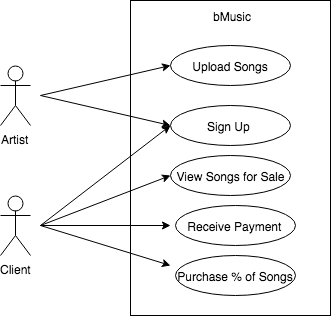
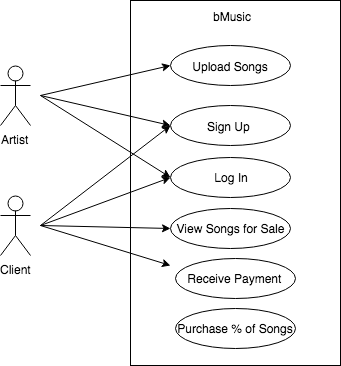
update and add use cases

diff --git a/REQUIREMENTS.md b/REQUIREMENTS.md
@@ -26,5 +26,23 @@ bMusic would solve Chris's needs as it is an extra way for him to grow his capit
 ## Use Cases 
 ![Use Cases](useCases.png)
 
+**Title**: Upload Songs
+
+**Actor**: Artist
+
+Scenario: Artist clicks on a button to upload a song. A modal pops up for artist to enter song name, price and max % of song they are willing to give up. System creates a smart contract given the input and stores the smart contract in a database. System adds the song to listings and closes the modal
+
+**Title**: Sign Up
+
+**Actor**: Artist and Client
+
+**Scenario**: A new user enters the site and clicks “sign up” button. System loads a modal for the new user to enter personal information to register for the bMusic platform. Personal information includes email, name and role (either artist or user). User submits the information and the system stores the information in a database to enable future login.
+
+**Title**: Log In
+
+**Actor**: Artist and Client
+
+**Scenario**: A registered user enters the site and clicks “log in” button. System loads a modal for the user to login information. System checks with the database to verify that the user is registered. If user is registered, system displays home page to user. If use is not registered or the email and password combination is incorrect, system denies user access and prompts them to reenter email and password combination.
+
 ## Domain Modeling 
 ![Model](bMusic.jpg)
